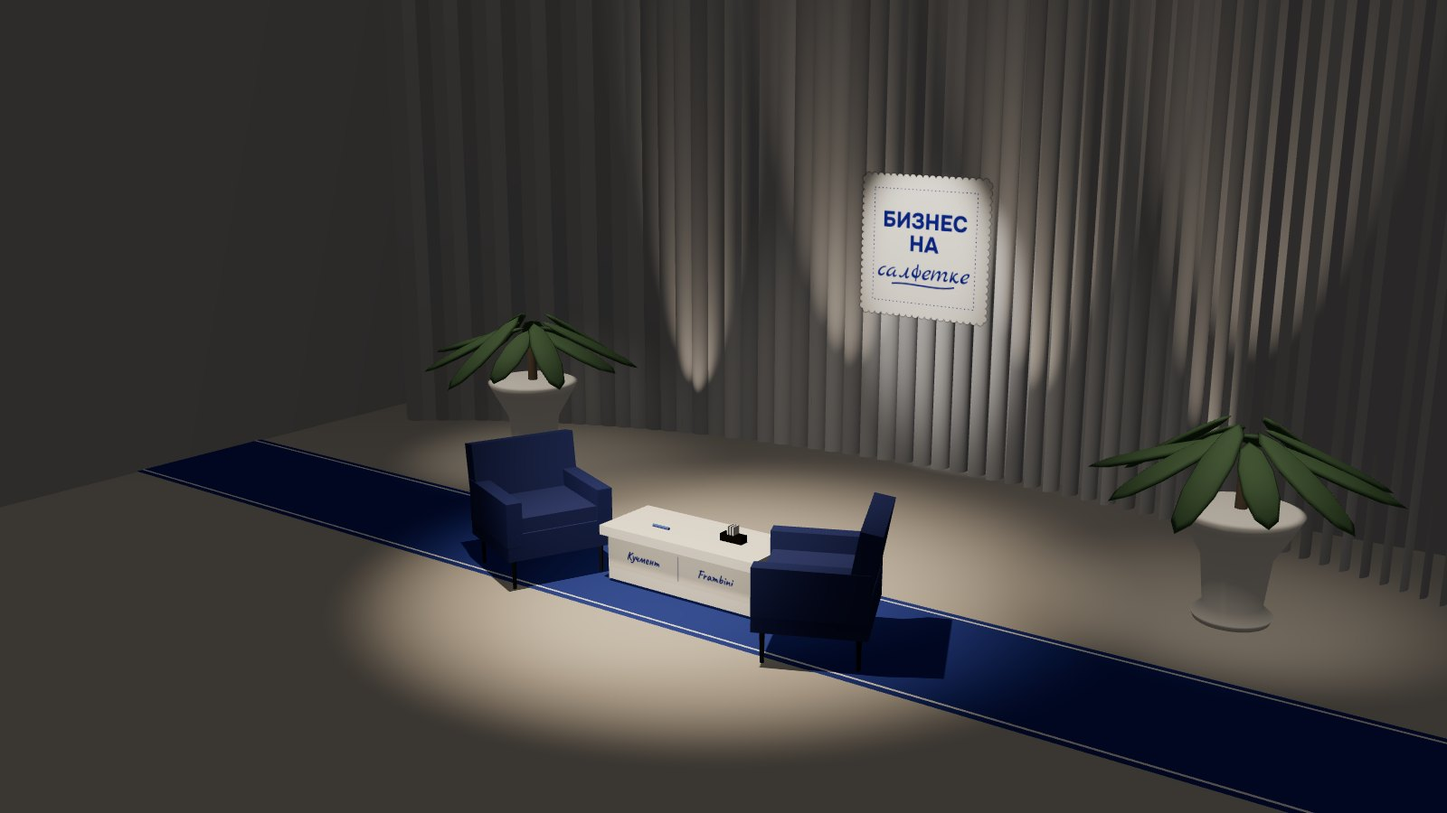
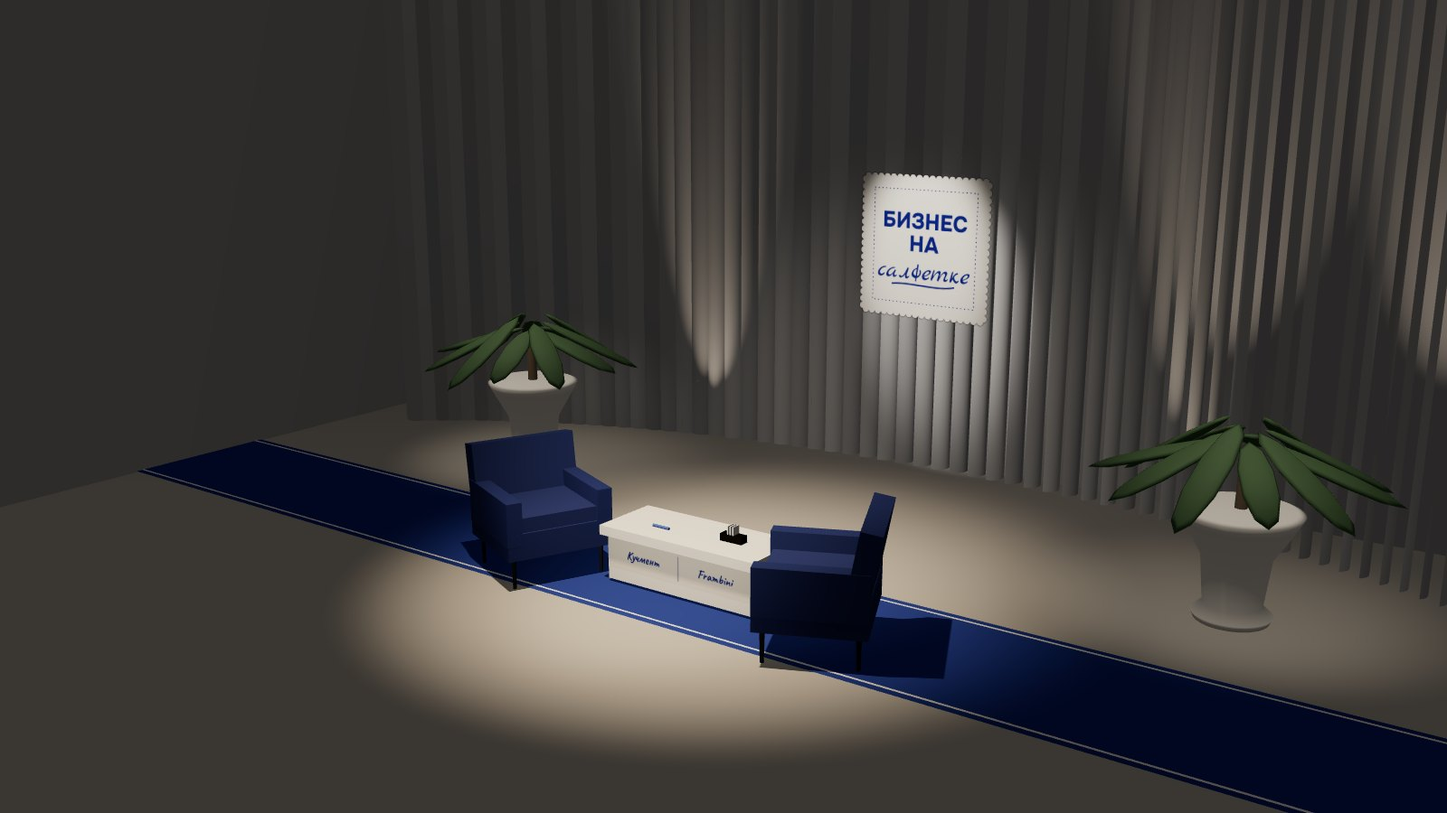
Читаемая надпись на шторах, синий в графике Кольца, шрифты Чернил, новая шапка
Claude-Session: https://claude.ai/code/session_01JqA9mxb2UcCAa9NfNrfw51

Changed region(s): [[0.6562, 0.0311, 1.0, 0.5289], [0.4375, 0.0311, 0.625, 0.4978]]

diff --git a/index.html b/index.html
@@ -57,11 +57,12 @@ nav a:hover,nav a:focus-visible{color:var(--fg)}
 @media (max-width:560px){nav b{display:none}}
 
 .hero{position:relative;text-align:center;padding-block:clamp(70px,10vw,130px) clamp(60px,8vw,100px);overflow:hidden}
-.hero::before{content:"";position:absolute;left:50%;top:6%;width:min(900px,120vw);aspect-ratio:2;transform:translateX(-50%);background:radial-gradient(closest-side,rgba(255,200,140,.16),transparent);pointer-events:none}
+.hero::before{content:"";position:absolute;left:50%;top:6%;width:min(900px,120vw);aspect-ratio:2;transform:translateX(-50%);background:radial-gradient(closest-side,rgba(70,100,255,.2),transparent);pointer-events:none}
 .hring{display:block;width:min(560px,86vw);height:auto;margin:0 auto}
 .hring ellipse{fill:none}
 .hero h1{font-size:clamp(54px,10.5vw,132px);font-weight:800;line-height:.92;letter-spacing:-.055em;margin-top:clamp(28px,4vw,44px)}
-.hero h1 span{display:block;color:var(--mut);font-weight:700;font-size:.42em;letter-spacing:-.03em;margin-top:.3em}
+.hero h1 .hlogo{display:table;margin-left:auto;margin-right:auto;font-family:"Onest","Inter",sans-serif;font-weight:800;color:#6f8bff;letter-spacing:.14em;font-size:.26em;margin-top:.9em;padding-bottom:.35em;border-bottom:.12em solid #3552e6;text-shadow:0 0 24px rgba(70,100,255,.55)}
+.hero h1 span:not(.hlogo){display:block;color:var(--mut);font-weight:700;font-size:.42em;letter-spacing:-.03em;margin-top:.3em}
 .hero .sub{font-size:clamp(18px,2vw,22px);color:var(--mut);margin:26px auto 0;max-width:640px}
 .hero-meta{display:flex;justify-content:center;gap:clamp(24px,6vw,64px);flex-wrap:wrap;margin-top:44px;color:var(--dim);font-size:13px}
 .hero-meta div{display:flex;flex-direction:column;gap:4px}
@@ -211,25 +212,25 @@ nav a:hover,nav a:focus-visible{color:var(--fg)}
 @media (max-width:700px){.frames{gap:28px}.fr .scr{border-radius:12px}.gal figcaption{padding:12px 14px}}
 @media (max-width:700px){.frames{grid-template-columns:1fr}}
 
-.r-lt{position:absolute;left:5cqw;bottom:7cqw;display:flex;align-items:center;gap:2.2cqw}
+.r-lt{position:absolute;left:4cqw;bottom:5cqw;display:flex;align-items:center;gap:2cqw;padding:1.6cqw 5cqw 1.6cqw 1.8cqw;border-radius:.8cqw;background:linear-gradient(90deg,rgba(12,26,102,.94),rgba(12,26,102,.8) 70%,rgba(12,26,102,0));border-left:.45cqw solid #5a78ff}
 .r-lt svg{width:7cqw;height:7cqw;flex:none;overflow:visible}
-.r-lt svg circle{fill:none;stroke:#ffe4c4;stroke-width:3;filter:drop-shadow(0 0 6px rgba(255,200,140,.8))}
+.r-lt svg circle{fill:none;stroke:#cdd7ff;stroke-width:3;filter:drop-shadow(0 0 6px rgba(90,120,255,.9))}
 .r-lt .nm{font-family:var(--r-text);font-weight:600;font-size:3.6cqw;color:#fff;letter-spacing:-.01em;line-height:1.05;text-shadow:0 2px 14px rgba(0,0,0,.6)}
-.r-lt .rl{font-family:var(--r-text);font-weight:400;font-size:1.9cqw;color:rgba(255,236,214,.88);margin-top:.6cqw;text-shadow:0 2px 10px rgba(0,0,0,.6)}
+.r-lt .rl{font-family:var(--r-text);font-weight:400;font-size:1.9cqw;color:#c9d3ff;margin-top:.6cqw;text-shadow:0 2px 10px rgba(0,0,0,.6)}
 .r-ch{position:absolute;inset:0;display:grid;place-items:center;text-align:center}
-.r-ch .box{position:relative;padding:4cqw 8cqw}
+.r-ch .box{position:relative;padding:4cqw 8cqw;background:radial-gradient(ellipse at center,rgba(12,26,102,.88) 0,rgba(12,26,102,.6) 45%,rgba(12,26,102,0) 72%)}
 .r-ch svg{position:absolute;inset:0;width:100%;height:100%;overflow:visible}
-.r-ch svg ellipse{fill:none;stroke:#ffe4c4;stroke-width:2;filter:drop-shadow(0 0 8px rgba(255,200,140,.7))}
-.r-ch .k{font-family:var(--r-text);font-weight:500;font-size:1.7cqw;letter-spacing:.35em;color:#ffd29a}
+.r-ch svg ellipse{fill:none;stroke:#8fa6ff;stroke-width:2.5;filter:drop-shadow(0 0 8px rgba(90,120,255,.9))}
+.r-ch .k{font-family:var(--r-text);font-weight:500;font-size:1.7cqw;letter-spacing:.35em;color:#a9bbff}
 .r-ch .h{font-family:var(--r-disp);font-weight:600;font-size:4.6cqw;color:#fff;margin-top:1cqw;letter-spacing:-.01em}
 .r-num{position:absolute;right:6cqw;top:10cqw}
 .r-num .v{font-family:var(--r-hand);font-weight:700;font-size:10cqw;color:#ffe4c4;line-height:.9;text-shadow:0 0 20px rgba(255,190,120,.45)}
 .r-num svg{display:block;width:26cqw;height:3cqw;margin-top:-.5cqw;overflow:visible}
-.r-num svg path{fill:none;stroke:#ffd29a;stroke-width:4;stroke-linecap:round}
-.r-num .c{font-family:var(--r-text);font-size:1.8cqw;color:rgba(255,236,214,.88);margin-top:1cqw;text-shadow:0 2px 10px rgba(0,0,0,.6)}
-.r-th{position:absolute;inset:0;display:flex;flex-direction:column;justify-content:flex-end;padding:4.5cqw 5cqw;background:linear-gradient(180deg,transparent 30%,rgba(0,0,0,.7))}
-.r-th .brand{position:absolute;top:4cqw;left:5cqw;display:flex;align-items:center;gap:1.4cqw;font-family:var(--r-text);font-weight:600;font-size:1.8cqw;color:#ffe4c4;letter-spacing:.12em;text-transform:uppercase}
-.r-th .brand i{width:3.6cqw;height:1.4cqw;border:2px solid #ffe4c4;border-radius:50%;box-shadow:0 0 8px rgba(255,200,140,.8)}
+.r-num svg path{fill:none;stroke:#5a78ff;stroke-width:5;stroke-linecap:round;filter:drop-shadow(0 0 6px rgba(90,120,255,.9))}
+.r-num .c{display:inline-block;font-family:var(--r-text);font-size:1.8cqw;color:#fff;margin-top:1.2cqw;background:rgba(12,26,102,.9);padding:.5cqw 1.2cqw;border-radius:.5cqw}
+.r-th{position:absolute;inset:0;display:flex;flex-direction:column;justify-content:flex-end;padding:4.5cqw 5cqw;background:linear-gradient(90deg,rgba(8,16,60,.92) 0,rgba(8,16,60,.75) 38%,rgba(8,16,60,0) 70%)}
+.r-th .brand{position:absolute;top:4cqw;left:5cqw;display:flex;align-items:center;gap:1.4cqw;font-family:var(--r-text);font-weight:600;font-size:1.8cqw;color:#fff;letter-spacing:.12em;text-transform:uppercase;background:#1d3592;padding:.8cqw 1.6cqw;border-radius:99px}
+.r-th .brand i{width:3.6cqw;height:1.4cqw;border:2px solid #fff;border-radius:50%}
 .r-th .h{font-family:var(--r-disp);font-weight:700;font-size:8.6cqw;color:#fff;line-height:.95;letter-spacing:-.03em}
 .r-th .s{font-family:var(--r-hand);font-weight:700;font-size:5cqw;color:#ffd29a;margin-top:.6cqw}
 
@@ -325,11 +326,11 @@ a:focus-visible{outline:2px solid var(--glow);outline-offset:3px;border-radius:6
 <header class="hero wrap">
   <svg class="hring" viewBox="0 0 560 170" aria-hidden="true">
     <defs><filter id="bl" x="-30%" y="-80%" width="160%" height="260%"><feGaussianBlur stdDeviation="9"/></filter></defs>
-    <ellipse class="halo" cx="280" cy="85" rx="250" ry="58" stroke="#ffd29a" stroke-opacity=".55" stroke-width="12" filter="url(#bl)"/>
-    <ellipse class="draw" cx="280" cy="85" rx="250" ry="58" stroke="#fff2df" stroke-width="3"/>
+    <ellipse class="halo" cx="280" cy="85" rx="250" ry="58" stroke="#5a78ff" stroke-opacity=".75" stroke-width="12" filter="url(#bl)"/>
+    <ellipse class="draw" cx="280" cy="85" rx="250" ry="58" stroke="#dfe5ff" stroke-width="3"/>
   </svg>
-  <h1>Два сета<span>для шоу «Бизнес на салфетке»</span></h1>
-  <p class="sub">Предложение по новому визуальному формату: исследование, две концепции сета, мини брендбук к каждой и пилотный выпуск с Катей Голден.</p>
+  <h1>Два сета<span class="hlogo">БИЗНЕС НА САЛФЕТКЕ</span></h1>
+  <p class="sub">Предложение по новому визуальному формату шоу: исследование, две концепции студии в фирменной сине белой палитре, логотип, мини брендбук с конкретными шрифтами и пилотный выпуск с Катей Голден.</p>
   <div class="hero-meta"><div>Для<strong>команды Михаила Кучмента</strong></div><div>Дата<strong>ноябрь 2026</strong></div></div>
 </header>
 
@@ -491,8 +492,8 @@ a:focus-visible{outline:2px solid var(--glow);outline-offset:3px;border-radius:6
         <div class="spec rv"><span class="nm">Палитра</span><div class="pal"><span><i style="background:#0b0b0c"></i>Ночь #0B0B0C</span><span><i style="background:#ffe4c4"></i>Свет #FFE4C4</span><span><i style="background:#ffd29a"></i>Накал #FFD29A</span><span><i style="background:#0c1a66"></i>Синий шоу #0C1A66</span><span><i style="background:#e6b49c"></i>Цвет гостя</span></div><p>Цвет гостя живет только на подиуме. Графика всегда остается в цветах света.</p></div>
       </div>
       <div class="frames">
-        <div class="fr rv"><div class="scr anim"><img src="ring_kg_two.jpg" alt=""><div class="r-lt"><svg viewBox="0 0 60 60"><circle cx="30" cy="30" r="25"/></svg><div class="txt"><div class="nm">Катя Голден</div><div class="rl">телеведущая, основательница бьюти бренда</div></div></div></div><p class="t"><b>Плашка гостя.</b> Кольцо прорисовывается, имя выезжает следом. Без подложки, только свет и текст.</p></div>
-        <div class="fr rv"><div class="scr anim"><img src="ring_kg.jpg" alt=""><div class="dark"></div><div class="r-ch"><div class="box"><svg viewBox="0 0 400 140" preserveAspectRatio="none"><ellipse cx="200" cy="70" rx="196" ry="66"/></svg><div class="k">ГЛАВА 02</div><div class="h">С ЧЕГО НАЧИНАЛИ</div></div></div></div><p class="t"><b>Глава.</b> Название темы внутри светового кольца, появляется при смене блока.</p></div>
+        <div class="fr rv"><div class="scr anim"><img src="ring_kg_two.jpg" alt=""><div class="r-lt"><svg viewBox="0 0 60 60"><circle cx="30" cy="30" r="25"/></svg><div class="txt"><div class="nm">Катя Голден</div><div class="rl">телеведущая, основательница бьюти бренда</div></div></div></div><p class="t"><b>Плашка гостя.</b> Кольцо прорисовывается, имя выезжает следом на полупрозрачной подложке фирменного синего.</p></div>
+        <div class="fr rv"><div class="scr anim"><img src="ring_kg.jpg" alt=""><div class="dark"></div><div class="r-ch"><div class="box"><svg viewBox="0 0 400 140" preserveAspectRatio="none"><ellipse cx="200" cy="70" rx="196" ry="66"/></svg><div class="k">ГЛАВА 02</div><div class="h">С ЧЕГО НАЧИНАЛИ</div></div></div></div><p class="t"><b>Глава.</b> Название темы внутри синего светового кольца, появляется при смене блока.</p></div>
         <div class="fr rv"><div class="scr anim"><img src="ring_pulkovo.jpg" alt=""><div class="dark" style="background:rgba(0,0,0,.3)"></div><div class="r-num"><div class="v">245 млрд</div><svg viewBox="0 0 260 30"><path d="M4 18 C 70 6, 150 30, 256 10"/></svg><div class="c">выручка «Рольфа» за год</div></div></div><p class="t"><b>Цифра.</b> Почерком, как на салфетке, с подчеркиванием от руки. Пример из описания выпуска с главой «Рольфа».</p></div>
         <div class="fr rv"><div class="scr anim"><img src="ring_kg_top.jpg" alt=""><div class="r-th"><div class="brand"><i></i>Бизнес на салфетке</div><div class="h">КАТЯ<br>ГОЛДЕН</div><div class="s">фраза из выпуска</div></div></div><p class="t"><b>Обложка.</b> Подиум гостя, крупное имя и короткая фраза почерком. Фразу берем из записанного выпуска.</p></div>
       </div>
@@ -539,10 +540,10 @@ a:focus-visible{outline:2px solid var(--glow);outline-offset:3px;border-radius:6
 .vs h4{font-size:18px;font-weight:600}.vs p{font-size:15px;color:var(--mut)}
 @media (max-width:700px){.vs{grid-template-columns:1fr}}
 .i-lt{position:absolute;left:5cqw;bottom:6cqw;background:var(--sheet);color:var(--ink-deep);padding:2.2cqw 3.2cqw;border-radius:.5cqw;transform:rotate(-1.5deg);box-shadow:0 1.5cqw 3cqw rgba(0,0,0,.4)}
-.i-lt .nm{font:700 4.6cqw/1 var(--r-hand);color:var(--ink)}
-.i-lt .rl{font:500 1.8cqw var(--text);color:#3b4370;margin-top:.8cqw}
+.i-lt .nm{font:5cqw/1 "Marck Script",cursive;color:var(--ink)}
+.i-lt .rl{font:500 1.8cqw "Onest",var(--text);color:#3b4370;margin-top:.8cqw}
 .i-num{position:absolute;right:6cqw;top:9cqw;text-align:right}
-.i-num .v{font:700 11cqw/.9 var(--r-hand);color:#a9bbff;text-shadow:0 0 24px rgba(80,110,255,.45)}
+.i-num .v{font:11cqw/.9 "Marck Script",cursive;color:#a9bbff;text-shadow:0 0 24px rgba(80,110,255,.45)}
 .i-num .c{font:500 1.9cqw var(--text);color:#dfe5ff;margin-top:1cqw}
 @container (max-width:520px){.i-lt .rl,.i-num .c{font-size:3cqw}}
 </style>
@@ -633,10 +634,18 @@ a:focus-visible{outline:2px solid var(--glow);outline-offset:3px;border-radius:6
 
     <div class="block">
       <div class="eyebrow rv">Графика</div>
-      <h3 class="h3 rv">Фирменный шрифт и логотип плюс рукописные чернила.</h3>
+      <h3 class="h3 rv">Два шрифта и одна палитра.</h3>
+      <div class="bb">
+        <div class="bb-row">
+          <div class="spec rv"><span class="aa" style="font-family:'Onest';font-weight:800;letter-spacing:.06em">АА</span><span class="nm">Onest ExtraBold</span><p>Логотип, заголовки глав, обложки. Только заглавные с разрядкой.</p></div>
+          <div class="spec rv"><span class="aa" style="font-family:'Onest';font-weight:500">Аа</span><span class="nm">Onest Medium</span><p>Роли гостей, подписи, субтитры. Тот же шрифт в спокойном весе.</p></div>
+          <div class="spec rv"><span class="aa" style="font-family:'Marck Script';color:#8fa6ff">Аа 245</span><span class="nm">Marck Script</span><p>Рукописные чернила: имена на табличках, цифры, фразы гостя, слово «салфетке» в логотипе.</p></div>
+        </div>
+        <div class="spec rv"><span class="nm">Палитра</span><div class="pal"><span><i style="background:#1d3592"></i>Чернила #1D3592</span><span><i style="background:#5a78ff"></i>Неон #5A78FF</span><span><i style="background:#f4f1ea"></i>Салфетка #F4F1EA</span><span><i style="background:#8d9096"></i>Шторы #8D9096</span><span><i style="background:#ffcf9a"></i>Теплый свет #FFCF9A</span></div><p>Синий только глубокий чернильный и светящийся неон. Яркий интерфейсный синий в шоу не используем.</p></div>
+      </div>
       <div class="frames">
-        <div class="fr rv"><div class="scr anim"><img src="ink_two.jpg" alt=""><div class="i-lt"><div class="nm">Катя Голден</div><div class="rl">телеведущая, основательница бьюти бренда</div></div></div><p class="t"><b>Плашка гостя.</b> Белая карточка салфетки, имя синими чернилами, роль фирменным шрифтом.</p></div>
-        <div class="fr rv"><div class="scr anim"><img src="ink_wide.jpg" alt=""><div class="dark" style="background:rgba(8,14,40,.45)"></div><div class="i-num"><div class="v">245 млрд</div><div class="c">выручка «Рольфа» за год</div></div></div><p class="t"><b>Цифра.</b> Почерком синими чернилами, как на салфетке.</p></div>
+        <div class="fr rv"><div class="scr anim"><img src="ink_two.jpg" alt=""><div class="i-lt"><div class="nm">Катя Голден</div><div class="rl">телеведущая, основательница бьюти бренда</div></div></div><p class="t"><b>Плашка гостя.</b> Белая карточка салфетки, имя шрифтом Marck Script синими чернилами, роль шрифтом Onest.</p></div>
+        <div class="fr rv"><div class="scr anim"><img src="ink_wide.jpg" alt=""><div class="dark" style="background:rgba(8,14,40,.45)"></div><div class="i-num"><div class="v">245 млрд</div><div class="c">выручка «Рольфа» за год</div></div></div><p class="t"><b>Цифра.</b> Marck Script, светящийся синий, как запись на салфетке.</p></div>
       </div>
     </div>
 
@@ -645,7 +654,7 @@ a:focus-visible{outline:2px solid var(--glow);outline-offset:3px;border-radius:6
       <h3 class="h3 rv">Как «Чернила» закрывают шесть слабых мест.</h3>
       <div class="fix">
         <div class="rv"><span class="was">Локация<span>Студия без хозяина</span></span><p>Студия построена из образа шоу: белая салфетка и линия синих чернил, имена собеседников на столике.</p></div>
-        <div class="rv"><span class="was">Шрифты<span>Четыре стиля</span></span><p>Два голоса: фирменный шрифт шоу для подписей и рукописные синие чернила для цифр и фраз.</p></div>
+        <div class="rv"><span class="was">Шрифты<span>Четыре стиля</span></span><p>Два шрифта: Onest для логотипа, глав и подписей, Marck Script для имен, цифр и фраз.</p></div>
         <div class="rv"><span class="was">Графика<span>Тетрадь и текст без стиля</span></span><p>Тетрадный лист меняем на салфетку, вся графика держится на синем и белом.</p></div>
         <div class="rv"><span class="was">Голос<span>Тихий закадр</span></span><p>Уверенная подача и звуковой логотип: скрип ручки по бумаге.</p></div>
         <div class="rv"><span class="was">Хук<span>Слабое начало</span></span><p>Выпуск открывается фразой гостя, которая на экране пишется от руки.</p></div>
@@ -655,7 +664,7 @@ a:focus-visible{outline:2px solid var(--glow);outline-offset:3px;border-radius:6
 
     <div class="risk rv">
       <div><span class="lab">Бюджет</span><p>Шторы, дорожка, столик, вазоны и свет. Пальмы и кресла можно взять из текущей студии, под гостя меняются только таблички.</p></div>
-      <div><span class="lab">Узнаваемость</span><p>Логотип, шрифт и палитра остаются прежними, зритель узнает шоу с первого кадра.</p></div>
+      <div><span class="lab">Узнаваемость</span><p>Сине белая палитра, бумага и рукописные заметки остаются, логотип получает систему из двух вариантов.</p></div>
     </div>
   </div></section>
 </article>
@@ -667,7 +676,8 @@ a:focus-visible{outline:2px solid var(--glow);outline-offset:3px;border-radius:6
     <tr><th></th><th class="r">Кольцо</th><th class="p" style="font-family:var(--r-hand);font-weight:700;font-size:30px;letter-spacing:0;text-transform:none;color:#a9bbff">Чернила</th></tr>
     <tr><td>Главная сила</td><td>Статус, драматургия света, вид сверху</td><td>Узнаваемость сохраняется, картинка становится сильнее</td></tr>
     <tr><td>Студия</td><td>Новый сет</td><td>Новый сет из айдентики шоу</td></tr>
-    <tr><td>Айдентика</td><td>Новая графика</td><td>Логотип, шрифт и сине белая палитра остаются</td></tr>
+    <tr><td>Айдентика</td><td>Новая графика, обод и свет фирменного синего</td><td>Сине белая палитра, бумага и рукописные заметки</td></tr>
+    <tr><td>Шрифты</td><td>Unbounded, Onest, Caveat</td><td>Onest ExtraBold и Medium, Marck Script</td></tr>
     <tr><td>Что меняется под гостя</td><td>Покрытие подиума</td><td>Таблички с именами на столике</td></tr>
     <tr><td>Бюджет</td><td>Постройка подиума и кольца</td><td>Шторы, дорожка, столик, свет</td></tr>
     <tr><td>Риск</td><td>Пустота на общем плане</td><td>Камерный свет требует точной расстановки приборов</td></tr>

diff --git a/scenes.js b/scenes.js
@@ -172,11 +172,11 @@
     // lights: soft daylight
     const key=new T.SpotLight(0xffcf9a,1.25,14,Math.PI/7,.85,1.2);key.position.set(0,6.5,2.2);key.target.position.set(0,.4,.35);key.castShadow=true;key.shadow.mapSize.set(1536,1536);key.shadow.radius=5;scene.add(key,key.target);
     const face=new T.SpotLight(0xffe2c2,.7,12,Math.PI/9,.8,1.2);face.position.set(0,2.4,6);face.target.position.set(0,1,.35);scene.add(face,face.target);
-    [-2.8,-1,1,2.8].forEach(x=>{const u=new T.SpotLight(0xffcf9e,1.1,7,Math.PI/9,.9,1.4);u.position.set(x,.1,-3.2);u.target.position.set(x*1.05,3.6,-4);scene.add(u,u.target)});
+    [-4.4,-2.6,2.6,4.4].forEach(x=>{const u=new T.SpotLight(0xffcf9e,1.1,7,Math.PI/9,.9,1.4);u.position.set(x,.1,-3.2);u.target.position.set(x*1.05,3.6,-4);scene.add(u,u.target)});
     [-3.6,3.6].forEach(x=>{const pl=new T.SpotLight(0xffe0b8,.8,6,Math.PI/8,.8,1.3);pl.position.set(x,4.5,-.6);pl.target.position.set(x,1,-1.6);scene.add(pl,pl.target)});
     const fontS='"Onest", "Inter", Arial, sans-serif',hand='"Marck Script", Caveat, cursive';
-    function logoC(){return cv(2048,512,(x,w,h)=>{x.clearRect(0,0,w,h);x.fillStyle='#3552e6';x.shadowColor='rgba(70,100,255,.85)';x.shadowBlur=28;x.textAlign='center';x.textBaseline='middle';x.font='800 128px '+fontS;try{x.letterSpacing='10px'}catch(e){}
-      x.fillText('БИЗНЕС НА САЛФЕТКЕ',w/2,h*.4);x.fillRect(150,h*.66,w-300,34);x.fillRect(150,h*.66+48,w-300,4)})}
+    function logoC(){return cv(2048,512,(x,w,h)=>{x.clearRect(0,0,w,h);x.fillStyle='#5a78ff';x.shadowColor='rgba(70,100,255,1)';x.shadowBlur=36;x.textAlign='center';x.textBaseline='middle';x.font='800 128px '+fontS;try{x.letterSpacing='10px'}catch(e){}
+      x.fillText('БИЗНЕС НА САЛФЕТКЕ',w/2,h*.4);x.shadowBlur=60;x.fillText('БИЗНЕС НА САЛФЕТКЕ',w/2,h*.4);x.shadowBlur=36;x.fillRect(150,h*.66,w-300,34);x.fillRect(150,h*.66+48,w-300,4)})}
     function logoB(){return cv(1024,1024,(x,w,h)=>{x.clearRect(0,0,w,h);const S=840,r=22,n=Math.round(S/(2*r)),st=S/n,o=(w-S)/2;
       x.fillStyle='#f6f4ef';x.beginPath();x.moveTo(o,o);for(let i=0;i<n;i++)x.arc(o+st*(i+.5),o,st/2,Math.PI,0);for(let i=0;i<n;i++)x.arc(o+S,o+st*(i+.5),st/2,-Math.PI/2,Math.PI/2);for(let i=0;i<n;i++)x.arc(o+S-st*(i+.5),o+S,st/2,0,Math.PI);for(let i=0;i<n;i++)x.arc(o,o+S-st*(i+.5),st/2,Math.PI/2,Math.PI*1.5);x.fill();
       x.strokeStyle='#1d3592';x.lineWidth=5;x.setLineDash([4,22]);x.lineCap='round';x.strokeRect(o+70,o+70,S-140,S-140);x.setLineDash([]);
